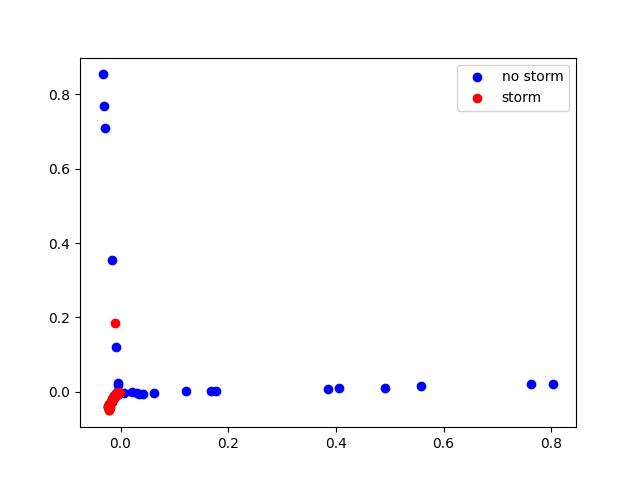
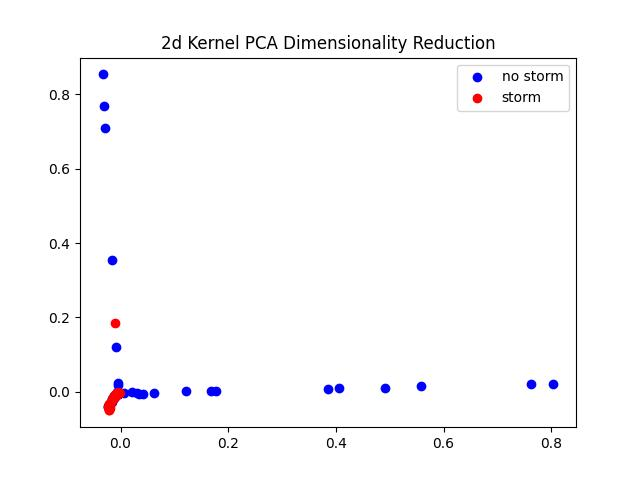
part 2: added titles to all plots

Changed region(s): [[0.25, 0.0625, 0.7812, 0.125]]

diff --git a/exercise_2/svd.py b/exercise_2/svd.py
@@ -21,6 +21,7 @@ no_storm = np.invert(storm)
 svd = TruncatedSVD(n_components=2, algorithm='randomized')
 X2 = svd.fit_transform(X_scaled)
 
+plt.title('2d SVD Dimensionality Reduction')
 plt.scatter(X2[no_storm, 0], X2[no_storm, 1], color='blue', label='no storm')
 plt.scatter(X2[storm, 0], X2[storm, 1], color='red', label='storm')
 plt.legend()
@@ -30,6 +31,7 @@ svd = TruncatedSVD(n_components=3, algorithm='randomized')
 X3 = svd.fit_transform(X_scaled)
 
 ax = plt.figure().add_subplot(projection='3d')
+ax.set_title('3d SVD Dimensionality Reduction')
 ax.scatter(X3[no_storm, 0], X3[no_storm, 1], X3[no_storm, 2], color='blue', label='no storm')
 ax.scatter(X3[storm, 0], X3[storm, 1], X3[storm, 2], color='red', label='storm')
 ax.view_init(elev=10, azim=-91, roll=0)

diff --git a/exercise_2/kernel_pca.py b/exercise_2/kernel_pca.py
@@ -17,6 +17,7 @@ no_storm = np.invert(storm)
 kpca = KernelPCA(n_components=2, kernel='rbf')
 X2 = kpca.fit_transform(X)
 
+plt.title('2d Kernel PCA Dimensionality Reduction')
 plt.scatter(X2[no_storm, 0], X2[no_storm, 1], color='blue', label='no storm')
 plt.scatter(X2[storm, 0], X2[storm, 1], color='red', label='storm')
 plt.legend()
@@ -26,6 +27,7 @@ kpca = KernelPCA(n_components=3, kernel='rbf')
 X3 = kpca.fit_transform(X)
 
 ax = plt.figure().add_subplot(projection='3d')
+ax.set_title('3d Kernel PCA Dimensionality Reduction')
 ax.scatter(X3[no_storm, 0], X3[no_storm, 1], X3[no_storm, 2], color='blue', label='no storm')
 ax.scatter(X3[storm, 0], X3[storm, 1], X3[storm, 2], color='red', label='storm')
 ax.view_init(elev=10, azim=-91, roll=0)

diff --git a/exercise_2/pca.py b/exercise_2/pca.py
@@ -16,6 +16,7 @@ no_storm = np.invert(storm)
 
 X2 = PCA(n_components=2).fit_transform(X)
 
+plt.title('2d PCA Dimensionality Reduction')
 plt.scatter(X2[no_storm, 0], X2[no_storm, 1], color='blue', label='no storm')
 plt.scatter(X2[storm, 0], X2[storm, 1], color='red', label='storm')
 plt.legend()
@@ -24,6 +25,7 @@ plt.savefig('images/pca_2d.jpg')
 X3 = PCA(n_components=3).fit_transform(X)
 
 ax = plt.figure().add_subplot(projection='3d')
+ax.set_title('3d PCA Dimensionality Reduction')
 ax.scatter(X3[no_storm, 0], X3[no_storm, 1], X3[no_storm, 2], color='blue', label='no storm')
 ax.scatter(X3[storm, 0], X3[storm, 1], X3[storm, 2], color='red', label='storm')
 ax.view_init(elev=10, azim=-91, roll=0)

diff --git a/exercise_2/README.md b/exercise_2/README.md
@@ -28,9 +28,9 @@ This method is linear.
 
 This method works really well with 3 dimensions.
 
-![PCA (2d)](images/pca_2d.jpg?raw=true "PCA (2d)")
+![PCA (2d)](images/pca_2d.jpg?raw=true)
 
-![PCA (3d)](images/pca_3d.jpg?raw=true "PCA (3d)")
+![PCA (3d)](images/pca_3d.jpg?raw=true)
 
 ### Kernel PCA
 
@@ -40,9 +40,9 @@ This method is non-linear.
 
 This method does not work well at all.
 
-![Kernel PCA (2d)](images/kernel_pca_2d.jpg?raw=true "Kernel PCA (2d)")
+![Kernel PCA (2d)](images/kernel_pca_2d.jpg?raw=true)
 
-![Kernel PCA (3d)](images/kernel_pca_3d.jpg?raw=true "Kernel PCA (3d)")
+![Kernel PCA (3d)](images/kernel_pca_3d.jpg?raw=true)
 
 ### LDA
 
@@ -63,6 +63,6 @@ This method is linear.
 
 It gives very similar results to PCA, with 3d working really well.
 
-![SVD (2d)](images/svd_2d.jpg?raw=true "SVD (2d)")
+![SVD (2d)](images/svd_2d.jpg?raw=true)
 
-![SVD (3d)](images/svd_3d.jpg?raw=true "SVD (3d)")
+![SVD (3d)](images/svd_3d.jpg?raw=true)
